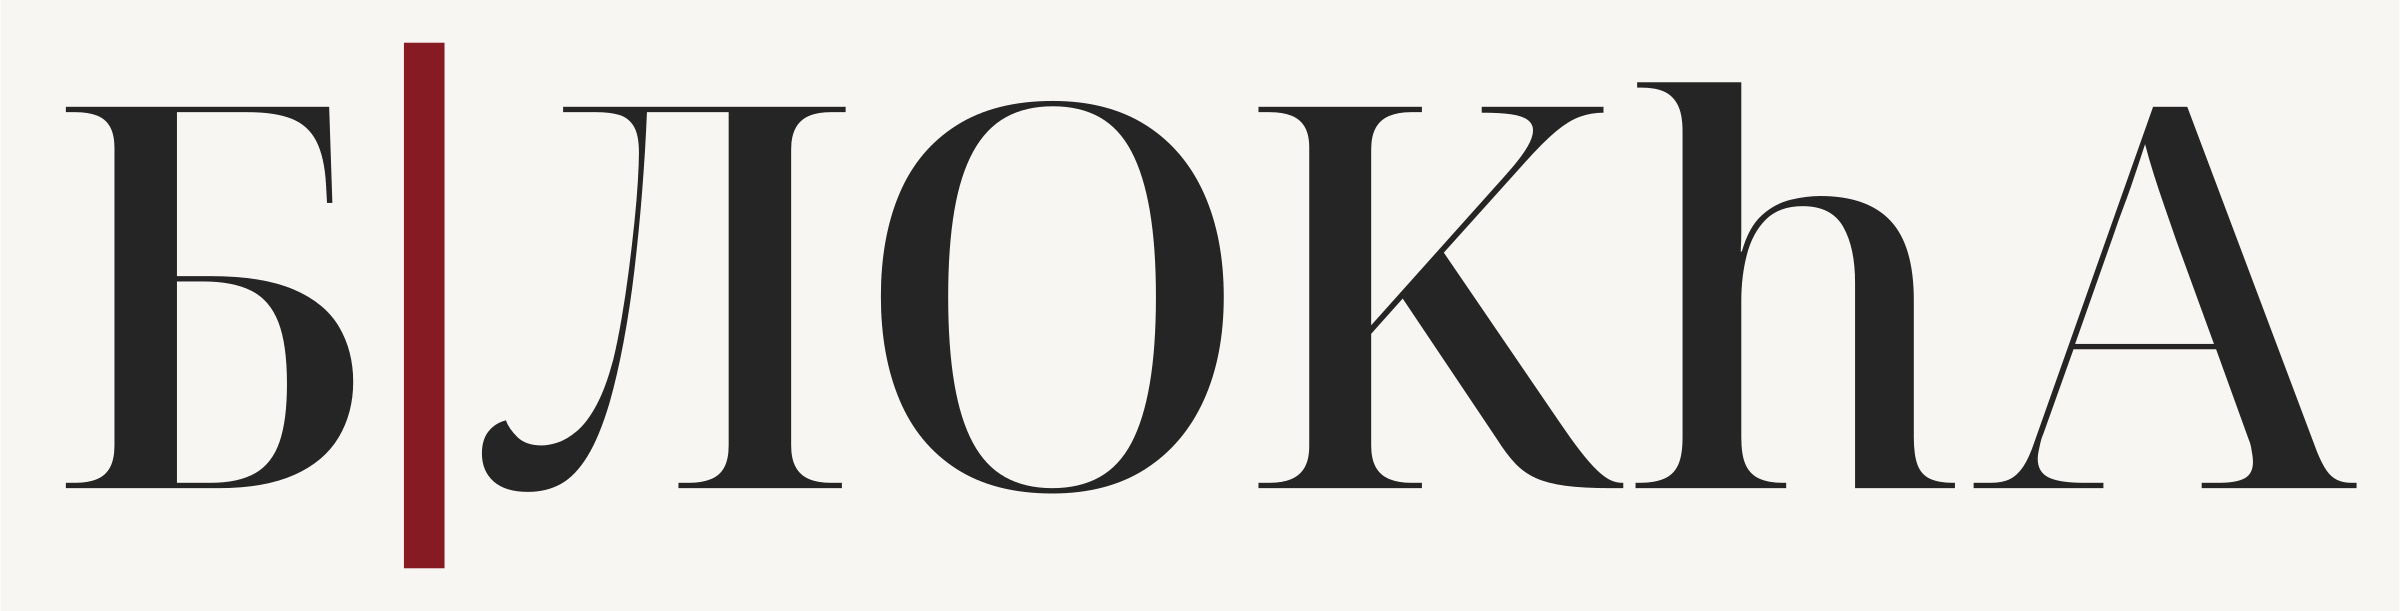
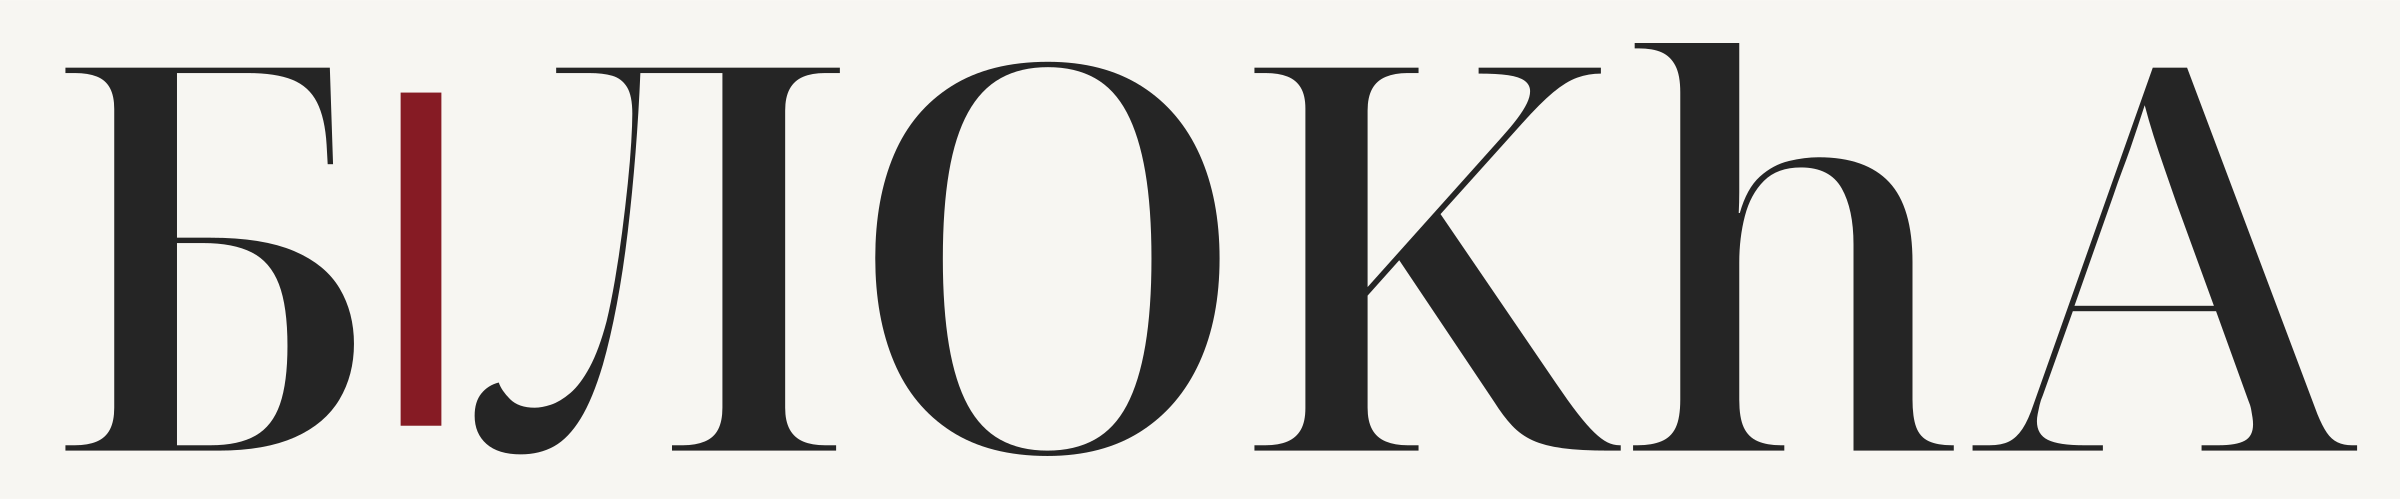
Логотип: «І» на ~13% нижча за великі літери, оптично відцентрована
Claude-Session: https://claude.ai/code/session_017yCdLiK5V92M84kmyQv6Ej

diff --git a/lib/wordmark.ts b/lib/wordmark.ts
@@ -1,3 +1,3 @@
 // Згенеровано: brand/tools (npm run build). Не редагуйте вручну.
-export const wordmark = {"viewBox":"-8 -842 4347 1000","glyphs":["M328 0L42 0L42-10L60-10Q84-10 100.5-17Q117-24 125-39.5Q133-55 133-80L133-80L133-637Q133-661 125-676Q117-691 100.5-697.5Q84-704 60-704L60-704L42-704L42-714L535-714L541-534L531-534L529-570Q526-620 511-649.5Q496-679 465-691.5Q434-704 382-704L382-704L250-704L250-397L313-397Q410-397 468.5-372Q527-347 553.5-302Q580-257 580-199L580-199Q580-141 553-95.5Q526-50 470-25Q414 0 328 0L328 0ZM250-10L313-10Q365-10 396.5-28Q428-46 442-86.5Q456-127 456-195L456-195Q456-269 440-310.5Q424-352 389.5-369.5Q355-387 299-387L299-387L250-387L250-10Z","M907 7L907 7Q865 7 843-12.5Q821-32 821-65L821-65Q821-91 833.5-106.5Q846-122 866-127L866-127Q871-112 887-96Q903-80 933-80L933-80Q946-80 963-85.5Q980-91 999-107Q1018-123 1035.5-155.5Q1053-188 1067-241L1067-241Q1075-274 1082.5-317.5Q1090-361 1096-407.5Q1102-454 1106.5-497.5Q1111-541 1113-575Q1115-609 1115-628L1115-628Q1115-662 1105-678Q1095-694 1077.5-699Q1060-704 1035-704L1035-704L973-704L973-714L1502-714L1502-704L1474-704Q1450-704 1433.5-697Q1417-690 1408.5-674.5Q1400-659 1400-634L1400-634L1400-80Q1400-55 1408.5-39.5Q1417-24 1433.5-17Q1450-10 1474-10L1474-10L1495-10L1495 0L1189 0L1189-10L1210-10Q1233-10 1250-17Q1267-24 1275-39.5Q1283-55 1283-80L1283-80L1283-704L1130-704Q1127-631 1121-555.5Q1115-480 1106.5-408Q1098-336 1086-272.5Q1074-209 1060-160L1060-160Q1041-96 1018.5-59.5Q996-23 969-8Q942 7 907 7Z","M1889 10L1889 10Q1781 10 1709.5-36Q1638-82 1603-165Q1568-248 1568-359L1568-359Q1568-470 1603-552Q1638-634 1710-679.5Q1782-725 1890-725L1890-725Q1993-725 2064.5-679.5Q2136-634 2173-551.5Q2210-469 2210-358L2210-358Q2210-247 2172.5-164.5Q2135-82 2063.5-36Q1992 10 1889 10ZM1889 0L1889 0Q1940 0 1977-20.5Q2014-41 2037-84.5Q2060-128 2071.5-196Q2083-264 2083-358L2083-358Q2083-452 2071.5-519.5Q2060-587 2037-630.5Q2014-674 1977.5-694.5Q1941-715 1890-715L1890-715Q1839-715 1802-694.5Q1765-674 1741-630.5Q1717-587 1705.5-519.5Q1694-452 1694-358L1694-358Q1694-264 1705.5-196Q1717-128 1740.5-84.5Q1764-41 1801-20.5Q1838 0 1889 0Z","M2581 0L2275 0L2275-10L2296-10Q2320-10 2336.5-17Q2353-24 2361.5-39Q2370-54 2370-79L2370-79L2370-638Q2370-662 2361.5-676.5Q2353-691 2336.5-697.5Q2320-704 2296-704L2296-704L2275-704L2275-714L2581-714L2581-704L2560-704Q2537-704 2520-697Q2503-690 2494.5-674.5Q2486-659 2486-634L2486-634L2486-305L2734-582Q2753-603 2765-619Q2777-635 2783-647.5Q2789-660 2789-670L2789-670Q2789-682 2779-689.5Q2769-697 2748-700Q2727-703 2693-703L2693-703L2693-714L2921-714L2921-703Q2898-703 2877-695.5Q2856-688 2832-668Q2808-648 2774-610L2774-610L2622-441L2837-126Q2860-92 2877.5-69.5Q2895-47 2908.5-34Q2922-21 2933-15.5Q2944-10 2956-10L2956-10L2958-10L2958 0L2935 0Q2883 0 2849.5-4.5Q2816-9 2794-19Q2772-29 2755.5-46.5Q2739-64 2722-91L2722-91L2545-355L2486-289L2486-80Q2486-55 2494.5-39.5Q2503-24 2520-17Q2537-10 2560-10L2560-10L2581-10L2581 0Z","M3263 0L2981 0L2981-10L2990-10Q3016-10 3034-17.5Q3052-25 3060.5-43Q3069-61 3069-95L3069-95L3069-668Q3069-700 3060-717.5Q3051-735 3034.5-742.5Q3018-750 2991-750L2991-750L2984-750L2984-760L3179-760L3179-482Q3179-463 3178-443L3178-443L3180-443Q3193-489 3217.5-511Q3242-533 3271.5-540Q3301-547 3327-547L3327-547Q3415-547 3458.5-500.5Q3502-454 3502-352L3502-352L3502-96Q3502-62 3509-43.5Q3516-25 3532.5-17.5Q3549-10 3575-10L3575-10L3579-10L3579 0L3392 0L3392-385Q3392-450 3370-489Q3348-528 3294-528L3294-528Q3250-528 3225-503Q3200-478 3189.5-437.5Q3179-397 3179-351L3179-351L3179-95Q3179-61 3187.5-43Q3196-25 3213.5-17.5Q3231-10 3256-10L3256-10L3263-10L3263 0Z","M3857 0L3614 0L3614-10L3646-10Q3668-10 3682-17Q3696-24 3707-40.5Q3718-57 3728-87L3728-87L3950-714L4014-714L4257-68Q4266-46 4274.5-33.5Q4283-21 4294.5-15.5Q4306-10 4321-10L4321-10L4331-10L4331 0L4041 0L4041-10L4073-10Q4106-10 4121.5-18.5Q4137-27 4137-49L4137-49Q4137-55 4136-61.5Q4135-68 4133.5-76.5Q4132-85 4128-94L4128-94L4068-260L3801-260L3745-103Q3741-94 3739-85Q3737-76 3735.5-68.5Q3734-61 3734-55L3734-55Q3734-30 3754.5-20Q3775-10 3821-10L3821-10L3857-10L3857 0ZM3877-477L3804-270L4064-270L3994-462Q3983-494 3972-525.5Q3961-557 3951.5-587Q3942-617 3935-644L3935-644Q3928-623 3921.5-603Q3915-583 3908-563Q3901-543 3893-522Q3885-501 3877-477L3877-477Z"],"bar":{"x":675,"y":-834,"w":76,"h":984}} as const;
-export const monogram = {"viewBox":"-8 -842 843 1000","glyphs":["M328 0L42 0L42-10L60-10Q84-10 100.5-17Q117-24 125-39.5Q133-55 133-80L133-80L133-637Q133-661 125-676Q117-691 100.5-697.5Q84-704 60-704L60-704L42-704L42-714L535-714L541-534L531-534L529-570Q526-620 511-649.5Q496-679 465-691.5Q434-704 382-704L382-704L250-704L250-397L313-397Q410-397 468.5-372Q527-347 553.5-302Q580-257 580-199L580-199Q580-141 553-95.5Q526-50 470-25Q414 0 328 0L328 0ZM250-10L313-10Q365-10 396.5-28Q428-46 442-86.5Q456-127 456-195L456-195Q456-269 440-310.5Q424-352 389.5-369.5Q355-387 299-387L299-387L250-387L250-10Z"],"bar":{"x":681,"y":-834,"w":76,"h":984}} as const;
+export const wordmark = {"viewBox":"-8 -768 4331 786","glyphs":["M328 0L42 0L42-10L60-10Q84-10 100.5-17Q117-24 125-39.5Q133-55 133-80L133-80L133-637Q133-661 125-676Q117-691 100.5-697.5Q84-704 60-704L60-704L42-704L42-714L535-714L541-534L531-534L529-570Q526-620 511-649.5Q496-679 465-691.5Q434-704 382-704L382-704L250-704L250-397L313-397Q410-397 468.5-372Q527-347 553.5-302Q580-257 580-199L580-199Q580-141 553-95.5Q526-50 470-25Q414 0 328 0L328 0ZM250-10L313-10Q365-10 396.5-28Q428-46 442-86.5Q456-127 456-195L456-195Q456-269 440-310.5Q424-352 389.5-369.5Q355-387 299-387L299-387L250-387L250-10Z","M891 7L891 7Q849 7 827-12.5Q805-32 805-65L805-65Q805-91 817.5-106.5Q830-122 850-127L850-127Q855-112 871-96Q887-80 917-80L917-80Q930-80 947-85.5Q964-91 983-107Q1002-123 1019.5-155.5Q1037-188 1051-241L1051-241Q1059-274 1066.5-317.5Q1074-361 1080-407.5Q1086-454 1090.5-497.5Q1095-541 1097-575Q1099-609 1099-628L1099-628Q1099-662 1089-678Q1079-694 1061.5-699Q1044-704 1019-704L1019-704L957-704L957-714L1486-714L1486-704L1458-704Q1434-704 1417.5-697Q1401-690 1392.5-674.5Q1384-659 1384-634L1384-634L1384-80Q1384-55 1392.5-39.5Q1401-24 1417.5-17Q1434-10 1458-10L1458-10L1479-10L1479 0L1173 0L1173-10L1194-10Q1217-10 1234-17Q1251-24 1259-39.5Q1267-55 1267-80L1267-80L1267-704L1114-704Q1111-631 1105-555.5Q1099-480 1090.5-408Q1082-336 1070-272.5Q1058-209 1044-160L1044-160Q1025-96 1002.5-59.5Q980-23 953-8Q926 7 891 7Z","M1873 10L1873 10Q1765 10 1693.5-36Q1622-82 1587-165Q1552-248 1552-359L1552-359Q1552-470 1587-552Q1622-634 1694-679.5Q1766-725 1874-725L1874-725Q1977-725 2048.5-679.5Q2120-634 2157-551.5Q2194-469 2194-358L2194-358Q2194-247 2156.5-164.5Q2119-82 2047.5-36Q1976 10 1873 10ZM1873 0L1873 0Q1924 0 1961-20.5Q1998-41 2021-84.5Q2044-128 2055.5-196Q2067-264 2067-358L2067-358Q2067-452 2055.5-519.5Q2044-587 2021-630.5Q1998-674 1961.5-694.5Q1925-715 1874-715L1874-715Q1823-715 1786-694.5Q1749-674 1725-630.5Q1701-587 1689.5-519.5Q1678-452 1678-358L1678-358Q1678-264 1689.5-196Q1701-128 1724.5-84.5Q1748-41 1785-20.5Q1822 0 1873 0Z","M2565 0L2259 0L2259-10L2280-10Q2304-10 2320.5-17Q2337-24 2345.5-39Q2354-54 2354-79L2354-79L2354-638Q2354-662 2345.5-676.5Q2337-691 2320.5-697.5Q2304-704 2280-704L2280-704L2259-704L2259-714L2565-714L2565-704L2544-704Q2521-704 2504-697Q2487-690 2478.5-674.5Q2470-659 2470-634L2470-634L2470-305L2718-582Q2737-603 2749-619Q2761-635 2767-647.5Q2773-660 2773-670L2773-670Q2773-682 2763-689.5Q2753-697 2732-700Q2711-703 2677-703L2677-703L2677-714L2905-714L2905-703Q2882-703 2861-695.5Q2840-688 2816-668Q2792-648 2758-610L2758-610L2606-441L2821-126Q2844-92 2861.5-69.5Q2879-47 2892.5-34Q2906-21 2917-15.5Q2928-10 2940-10L2940-10L2942-10L2942 0L2919 0Q2867 0 2833.5-4.5Q2800-9 2778-19Q2756-29 2739.5-46.5Q2723-64 2706-91L2706-91L2529-355L2470-289L2470-80Q2470-55 2478.5-39.5Q2487-24 2504-17Q2521-10 2544-10L2544-10L2565-10L2565 0Z","M3247 0L2965 0L2965-10L2974-10Q3000-10 3018-17.5Q3036-25 3044.5-43Q3053-61 3053-95L3053-95L3053-668Q3053-700 3044-717.5Q3035-735 3018.5-742.5Q3002-750 2975-750L2975-750L2968-750L2968-760L3163-760L3163-482Q3163-463 3162-443L3162-443L3164-443Q3177-489 3201.5-511Q3226-533 3255.5-540Q3285-547 3311-547L3311-547Q3399-547 3442.5-500.5Q3486-454 3486-352L3486-352L3486-96Q3486-62 3493-43.5Q3500-25 3516.5-17.5Q3533-10 3559-10L3559-10L3563-10L3563 0L3376 0L3376-385Q3376-450 3354-489Q3332-528 3278-528L3278-528Q3234-528 3209-503Q3184-478 3173.5-437.5Q3163-397 3163-351L3163-351L3163-95Q3163-61 3171.5-43Q3180-25 3197.5-17.5Q3215-10 3240-10L3240-10L3247-10L3247 0Z","M3841 0L3598 0L3598-10L3630-10Q3652-10 3666-17Q3680-24 3691-40.5Q3702-57 3712-87L3712-87L3934-714L3998-714L4241-68Q4250-46 4258.5-33.5Q4267-21 4278.5-15.5Q4290-10 4305-10L4305-10L4315-10L4315 0L4025 0L4025-10L4057-10Q4090-10 4105.5-18.5Q4121-27 4121-49L4121-49Q4121-55 4120-61.5Q4119-68 4117.5-76.5Q4116-85 4112-94L4112-94L4052-260L3785-260L3729-103Q3725-94 3723-85Q3721-76 3719.5-68.5Q3718-61 3718-55L3718-55Q3718-30 3738.5-20Q3759-10 3805-10L3805-10L3841-10L3841 0ZM3861-477L3788-270L4048-270L3978-462Q3967-494 3956-525.5Q3945-557 3935.5-587Q3926-617 3919-644L3919-644Q3912-623 3905.5-603Q3899-583 3892-563Q3885-543 3877-522Q3869-501 3861-477L3861-477Z"],"bar":{"x":667,"y":-668,"w":76,"h":621}} as const;
+export const monogram = {"viewBox":"-8 -722 827 730","glyphs":["M328 0L42 0L42-10L60-10Q84-10 100.5-17Q117-24 125-39.5Q133-55 133-80L133-80L133-637Q133-661 125-676Q117-691 100.5-697.5Q84-704 60-704L60-704L42-704L42-714L535-714L541-534L531-534L529-570Q526-620 511-649.5Q496-679 465-691.5Q434-704 382-704L382-704L250-704L250-397L313-397Q410-397 468.5-372Q527-347 553.5-302Q580-257 580-199L580-199Q580-141 553-95.5Q526-50 470-25Q414 0 328 0L328 0ZM250-10L313-10Q365-10 396.5-28Q428-46 442-86.5Q456-127 456-195L456-195Q456-269 440-310.5Q424-352 389.5-369.5Q355-387 299-387L299-387L250-387L250-10Z"],"bar":{"x":673,"y":-668,"w":76,"h":621}} as const;
